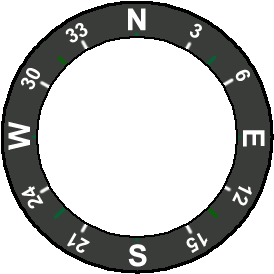
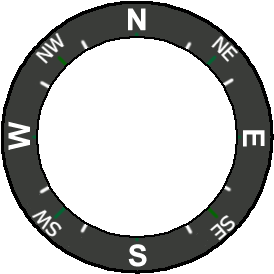
Updated gauges and resolved code issues with slider
Here are a list of fixes that I have now completed with regards to the gauges and slider:
1) Vertical speed gauge code has been updated to "peg" needle rather than change scale.
2) Compass artwork has been updated to make it easy to ready (increased "fun factor").
3) Found and resolved code error that was impacting movement of compass heading guage.  Decided to abandon derived calculation for heading since most are just going to be travelling in the direction drone is pointed and use orientation value instead.
4) Resized gauges to properly fit in a standard size laptop so they do not flow off of the users screen.
5) Verified hands on both distance gauges are functioning properly (like a clock) and values go up or down over various flight log replays.
6) Updated slider code within various procedures to make it operate properly/reset/etc.

diff --git a/src/main.py b/src/main.py
@@ -866,11 +866,12 @@ class MainApp(MDApp):
 
 
     def init_gauges(self):
-        print("INIT GAUGES")
         self.root.ids.HSPDgauge.display_unit = self.speed_unit()
         self.root.ids.VSPDgauge.display_unit = self.speed_unit()
         self.root.ids.ALgauge.display_unit = self.dist_unit()
         self.root.ids.DSgauge.display_unit = self.dist_unit()
+        
+
 
 
     '''
@@ -997,9 +998,15 @@ class MainApp(MDApp):
         if self.is_desktop: # Gauges are turned off on mobile devices.
             # Set horizontal, vertical and altitude gauge values. Use rounded values.
             self.root.ids.HSPDgauge.value = round(locale.atof(record[self.columns.index('speed2')]))
-            self.root.ids.VSPDgauge.value = round(locale.atof(record[self.columns.index('speed2vert')]))
+            # Chris
+            # Added conditional to simply "peg out" the gauge one way or the other if beyond the vertical limits
+            if round(locale.atof(record[self.columns.index('speed2vert')])) > 10 or round(locale.atof(record[self.columns.index('speed2vert')])) < -10:
+                self.root.ids.VSPDgauge.value = 10
+            else: 
+                self.root.ids.VSPDgauge.value = round(locale.atof(record[self.columns.index('speed2vert')]))
+
             self.root.ids.ALgauge.value = round(locale.atof(record[self.columns.index('altitude2')]))
-            self.root.ids.DSgauge.value = round(locale.atof(record[self.columns.index('traveled')]))
+            self.root.ids.DSgauge.value = round(locale.atof(record[self.columns.index('distance3')]))   #traveled Chris
 
             # Set up vars for HDgauge calcs
             if self.root.ids.value_duration.text == "":
@@ -1016,10 +1023,15 @@ class MainApp(MDApp):
                 y = math.cos(math.radians(head_lat_1)) * math.sin(math.radians(self.head_lat_2)) - math.sin(math.radians(head_lat_1)) * math.cos(math.radians(self.head_lat_2)) * math.cos(math.radians(dLon))
                 brng = math.atan2(x,y)
                 brng = math.degrees(brng)
-                if self.root.ids.HSPDgauge.value != 0:
-                    if brng < 0:
-                        brng = 360 + brng
-                        self.root.ids.HDgauge.value = brng
+                #Chris Altered code to simply use orientation rather than calculated bearing as most of the time users will be be
+                #      going in the direction they are pointed.
+                # if self.root.ids.HSPDgauge.value != 0:
+                #     if brng < 0:
+                #         brng = 360 + brng
+                #         self.root.ids.HDgauge.value = brng
+                G_orientation = round(math.degrees(record[self.columns.index('orientation')])) # Drone orientation in degrees, -180 to 180.
+                G_rotation = abs(G_orientation) if G_orientation <= 0 else 360 - G_orientation # Convert to 0 - 359 range.
+                self.root.ids.HDgauge.value = G_rotation
 
         dronestatus2 = rthDesc if rthDesc == "RTH" else dronestatus
         if self.is_desktop:
@@ -1032,10 +1044,11 @@ class MainApp(MDApp):
                 durstr = self.root.ids.value_duration.text.split(":")
                 durval = datetime.timedelta(hours=int(durstr[0]), minutes=int(durstr[1]), seconds=int(durstr[2]))
                 if durval != 0: # Prevent division by zero
-                    self.root.ids.flight_progress.value = elapsed / durval * 100
-                    self.root.ids.flight_progress.slider.value = elapsed / durval * 100
+                    #self.root.ids.flight_progress.value = elapsed / durval * 100  
+                    self.root.ids.flight_progress.slider.value = elapsed / durval * 100   # Chris -fixed missing parameter for slider object
                 else:
-                    self.root.ids.flight_progress.value = 0
+                    #self.root.ids.flight_progress.value = 0
+                    self.root.ids.flight_progress.slider.value = 0   # Chris -fixed missing parameter for slider object
         # Controller Marker.
         try:
             ctrllat = float(record[self.columns.index('ctrllat')])
@@ -1177,7 +1190,7 @@ class MainApp(MDApp):
             self.currentRowIdx = self.currentStartIdx
             self.root.ids.flight_progress.is_updating = True
             self.set_markers(False)
-            self.root.ids.flight_progress.value = 0
+            self.root.ids.flight_progress.slider.value = 0    # Chris  - fixed missing parameter for slider object.
             self.root.ids.flight_progress.is_updating = False
             return
         flightNum = int(re.sub(r"[^0-9]", r"", self.root.ids.selected_path.text))
@@ -1186,7 +1199,8 @@ class MainApp(MDApp):
             self.root.ids.flight_progress.is_updating = True
             self.select_flight(True)
             self.set_markers(False)
-            self.root.ids.flight_progress.value = 100
+            #self.root.ids.flight_progress.value = 100
+            self.root.ids.flight_progress.slider.value = 100    # Chris -fixed missing parameter for slider object
             self.root.ids.flight_progress.is_updating = False
         else:
             self.show_info_message(message=_('no_previous_flight'))
@@ -1207,7 +1221,8 @@ class MainApp(MDApp):
             self.currentRowIdx = self.currentEndIdx
             self.root.ids.flight_progress.is_updating = True
             self.set_markers(False)
-            self.root.ids.flight_progress.value = 100
+            #self.root.ids.flight_progress.value = 100       
+            self.root.ids.flight_progress.slider.value = 100    # Chris - fixed missing parameter for slider object
             self.root.ids.flight_progress.is_updating = False
             return
         flightNum = int(re.sub(r"[^0-9]", r"", self.root.ids.selected_path.text))
@@ -1216,7 +1231,8 @@ class MainApp(MDApp):
             self.root.ids.flight_progress.is_updating = True
             self.select_flight()
             self.set_markers(False)
-            self.root.ids.flight_progress.value = 0
+            #self.root.ids.flight_progress.value = 0
+            self.root.ids.flight_progress.slider.value = 0      # Chris - fixed missing parameter for slider object
             self.root.ids.flight_progress.is_updating = False
         else:
             self.show_info_message(message=_('no_next_flight'))
@@ -1366,7 +1382,8 @@ class MainApp(MDApp):
         flightNum = 0 if (self.root.ids.selected_path.text == '--') else int(re.sub(r"[^0-9]", r"", self.root.ids.selected_path.text))
         if (flightNum == 0):
             self.root.ids.flight_progress.is_updating = True
-            self.root.ids.flight_progress.value = 0
+            #self.root.ids.flight_progress.value = 0
+            self.root.ids.flight_progress.slider.value = 0    # Chris  - fixed missing parameter for slider object
             self.root.ids.flight_progress.is_updating = False
             self.root.ids.value1_elapsed.text = ""
             self.root.ids.value1_alt.text = ""
@@ -1985,7 +2002,8 @@ class MainApp(MDApp):
             #self.root.ids.map_metrics1.text = ""
             self.root.ids.map_metrics2.text = ""
             self.root.ids.flight_progress.is_updating = True
-            self.root.ids.flight_progress.value = 0
+            #self.root.ids.flight_progress.value = 0
+            self.root.ids.flight_progress.slider.value = 0   # Chris - fixed missing parameter for slider object
             self.root.ids.flight_progress.is_updating = False
             self.root.ids.flight_stats_grid.clear_widgets()
             self.root.ids.speed_indicator.icon = f"numeric-{self.playback_speed}-box"
@@ -2215,7 +2233,7 @@ class DistGauge(Widget):
     file_gauge = StringProperty("assets/Distance_Background.png")
     file_needle_long = StringProperty("assets/LongNeedleAltimeter1a.png")
     file_needle_short = StringProperty("assets/SmallNeedleAltimeter1a.png")
-    size_gauge = dp(180)
+    size_gauge = dp(150) #180
 
     def __init__(self, **kwargs):
         super(DistGauge, self).__init__(**kwargs)
@@ -2295,7 +2313,7 @@ class AltGauge(Widget):
     file_gauge = StringProperty("assets/Altimeter_Background2.png")
     file_needle_long = StringProperty("assets/LongNeedleAltimeter1a.png")
     file_needle_short = StringProperty("assets/SmallNeedleAltimeter1a.png")
-    size_gauge = dp(180)
+    size_gauge = dp(150) #180
     size_text = NumericProperty(10)
 
     def __init__(self, **kwargs):
@@ -2376,7 +2394,7 @@ class HGauge(Widget):
     value = BoundedNumericProperty(0, min=-400, max=400, errorvalue=0)
     file_gauge = StringProperty("assets/AirSpeedIndicator_Background_H.png")
     file_needle = StringProperty("assets/needle.png")
-    size_gauge = dp(180)
+    size_gauge = dp(150)  #180
     size_text = NumericProperty(10)
 
     def __init__(self, **kwargs):
@@ -2434,10 +2452,10 @@ Vertical Speed Gauge
 class VGauge(Widget):
     display_unit = StringProperty("")
     unit = NumericProperty(1.8)
-    value = BoundedNumericProperty(0, min=-10, max=400, errorvalue=0)
+    value = BoundedNumericProperty(0, min=-10, max=10, errorvalue=0) # Changed Max to 10   Chris
     file_gauge = StringProperty("assets/AirSpeedIndicator_Background_V.png")
     file_needle = StringProperty("assets/needle.png")
-    size_gauge = dp(180)
+    size_gauge = dp(150) #180
     size_text = NumericProperty(10)
 
     def __init__(self, **kwargs):
@@ -2500,7 +2518,7 @@ class HeadingGauge(Widget):
     file_gauge = StringProperty("assets/HeadingIndicator_Background1.png")
     file_heading_ring = StringProperty("assets/HeadingRing.png")
     file_heading_aircraft = StringProperty("assets/Heading_drone3a.png")  #HeadingIndicator_Aircraft1c.png
-    size_gauge = dp(180)
+    size_gauge = dp(150) #180
     size_text = NumericProperty(10)
 
     def __init__(self, **kwargs):
@@ -2554,7 +2572,7 @@ class HeadingGauge(Widget):
     def _turn(self, *args): # Turn
         self._headingR.center_x = self._gauge.center_x
         self._headingR.center_y = self._gauge.center_y
-        self._headingR.rotation = (1 * self.unit) + (self.value * 1)
+        self._headingR.rotation = (1 * self.unit) - (self.value * 1)  # Chris change math mistake + to -
         self._aircrafT.center_y = self._gauge.center_y
         self._aircrafT.rotation = (1 * self.unit) + (self.drotation * 1)
 
@@ -2573,6 +2591,10 @@ class ProgressSlider(BoxLayout):
         self.slider.background_normal = ''
         self.slider.cursor_color = (1, 0, 0, 1)
         self.add_widget(self.slider)
+
+    def reset_slider(self,value):
+        self.slider.value = 0
+        printer("slider reset")
 
     def on_progress_slider_value_change(self, instance, value):
         MDApp.get_running_app().on_progress_slider_value_change(instance, value)  
@@ -2595,11 +2617,16 @@ class ProgressSlider(BoxLayout):
 
     def update_value(self, new_value):
         if new_value < self.slider.min:
-            self.value = self.min
+            #self.value = self.min
+            self.slider.value = self.slider.min
         elif new_value > self.slider.max:
             self.slider.value = self.slider.max
         else:
             self.slider.value = new_value
+        self.slider.invalidate()  
+        self.slider.canvas.ask_update()  
+        Clock.schedule_once(self.slider._do_layout, 0)  
+        self.slider._update_graphics()
 
 
 """  
